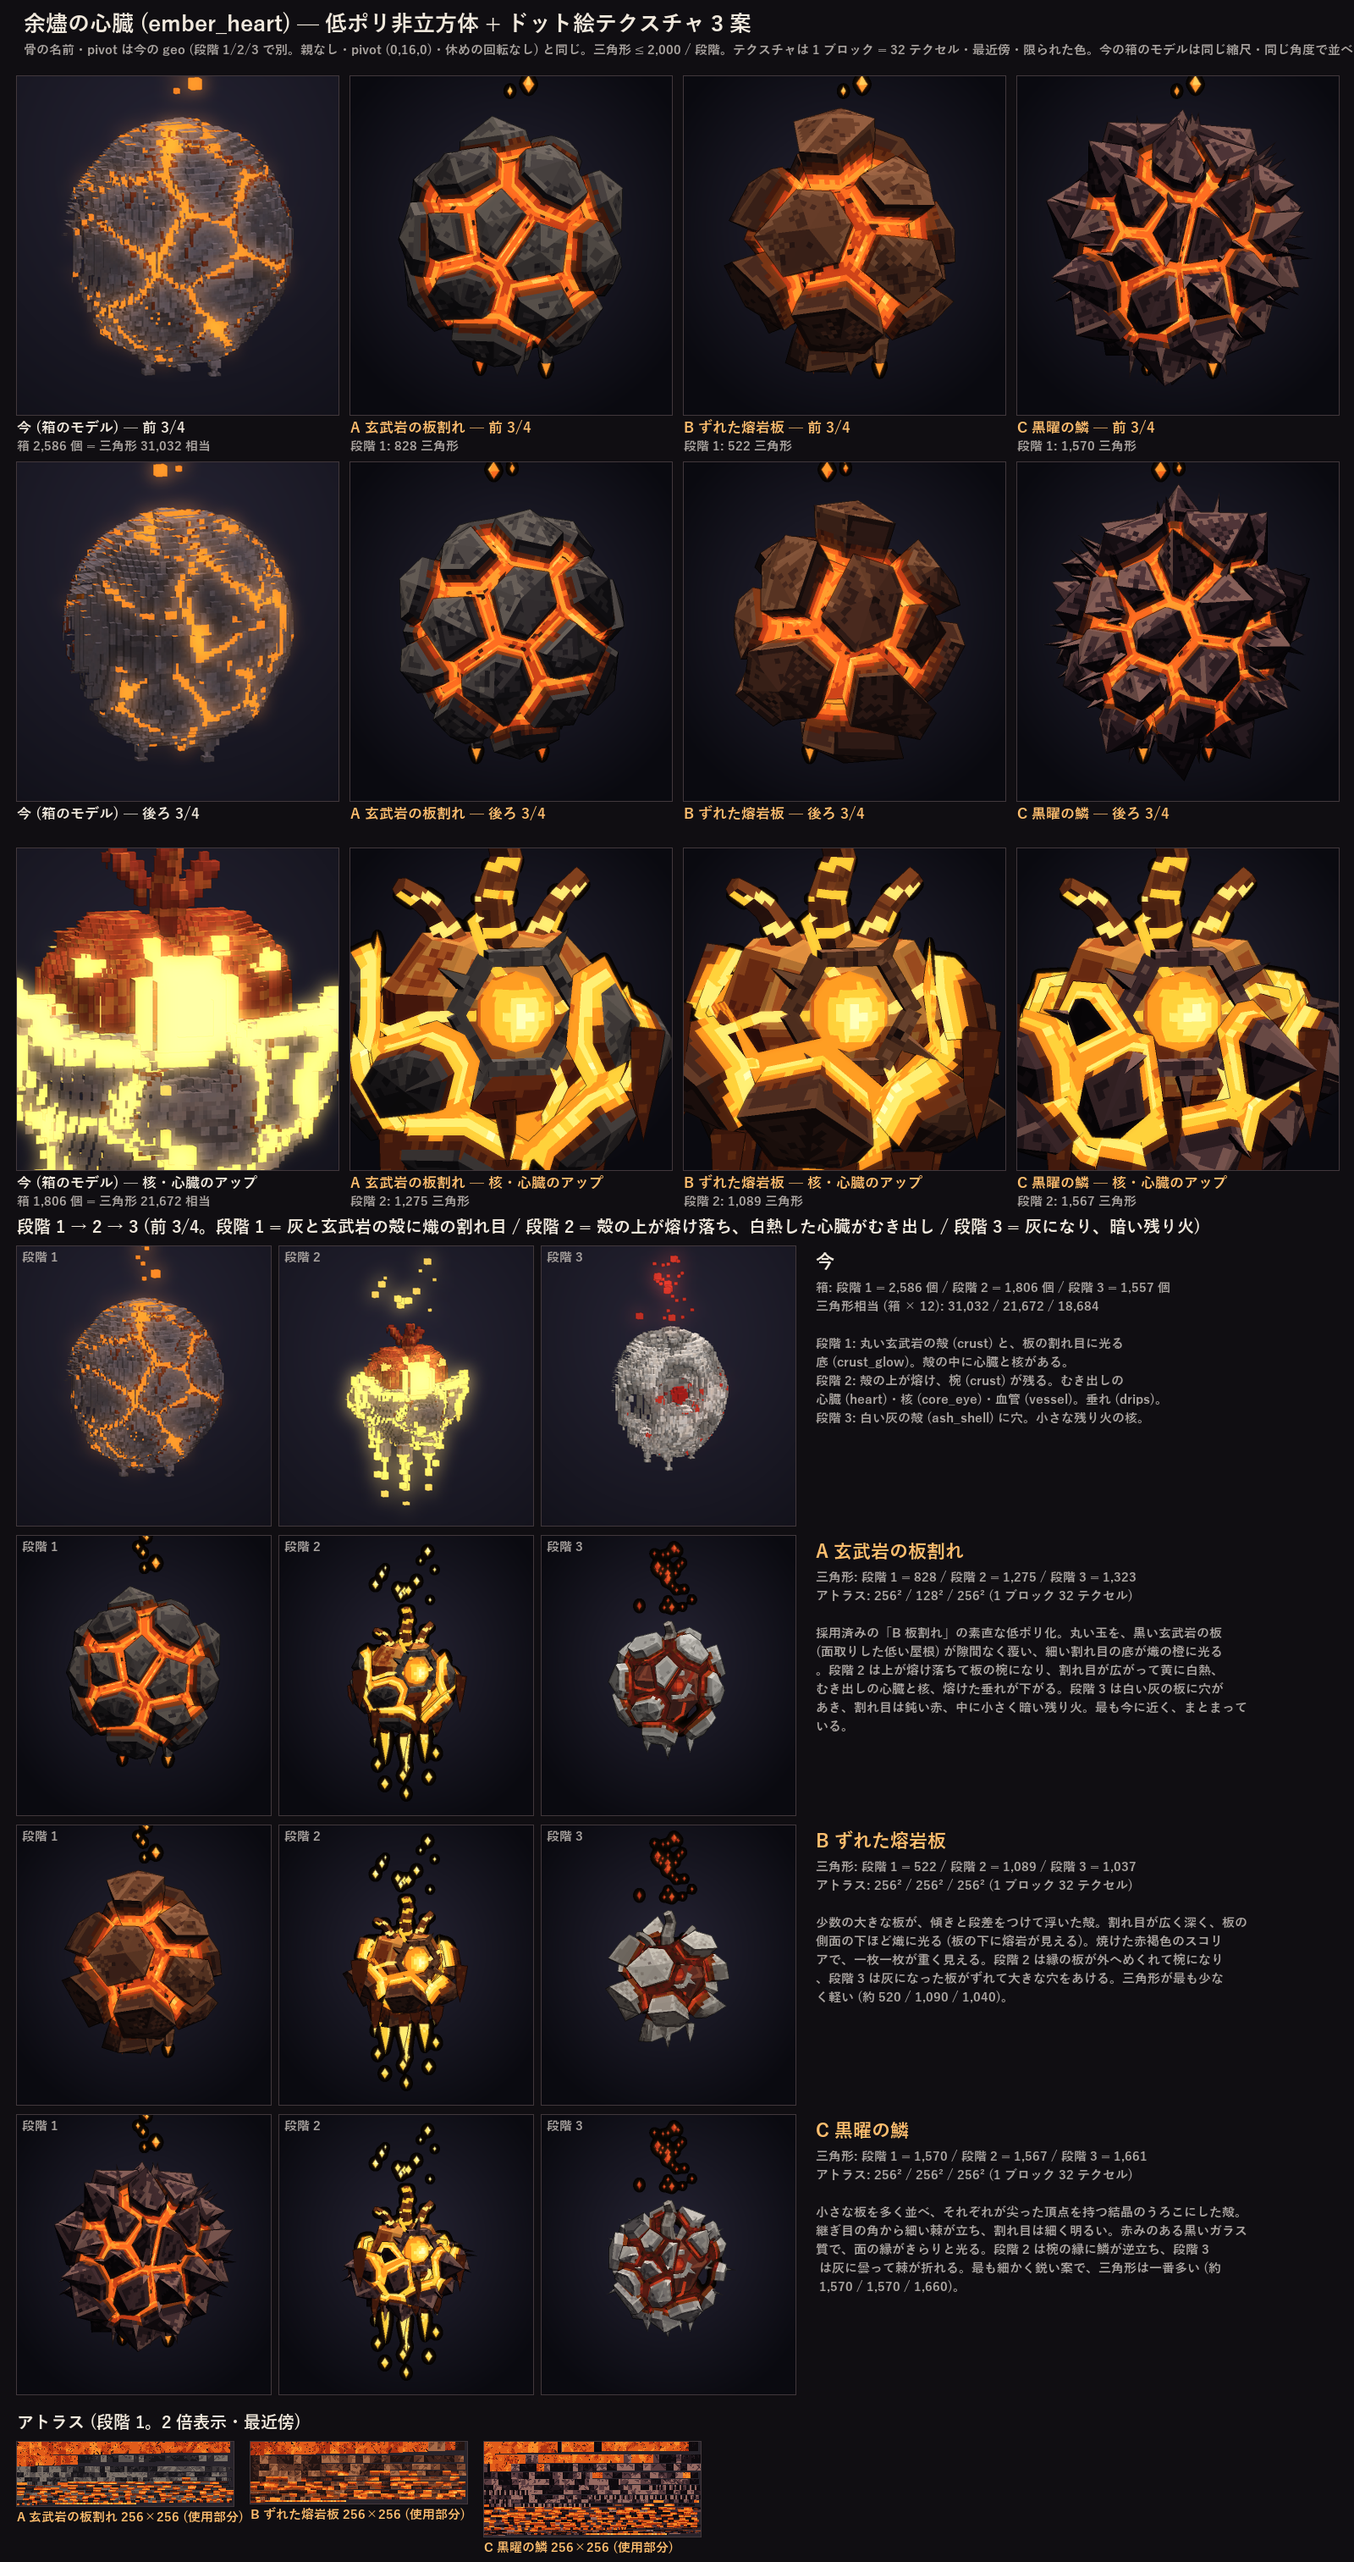
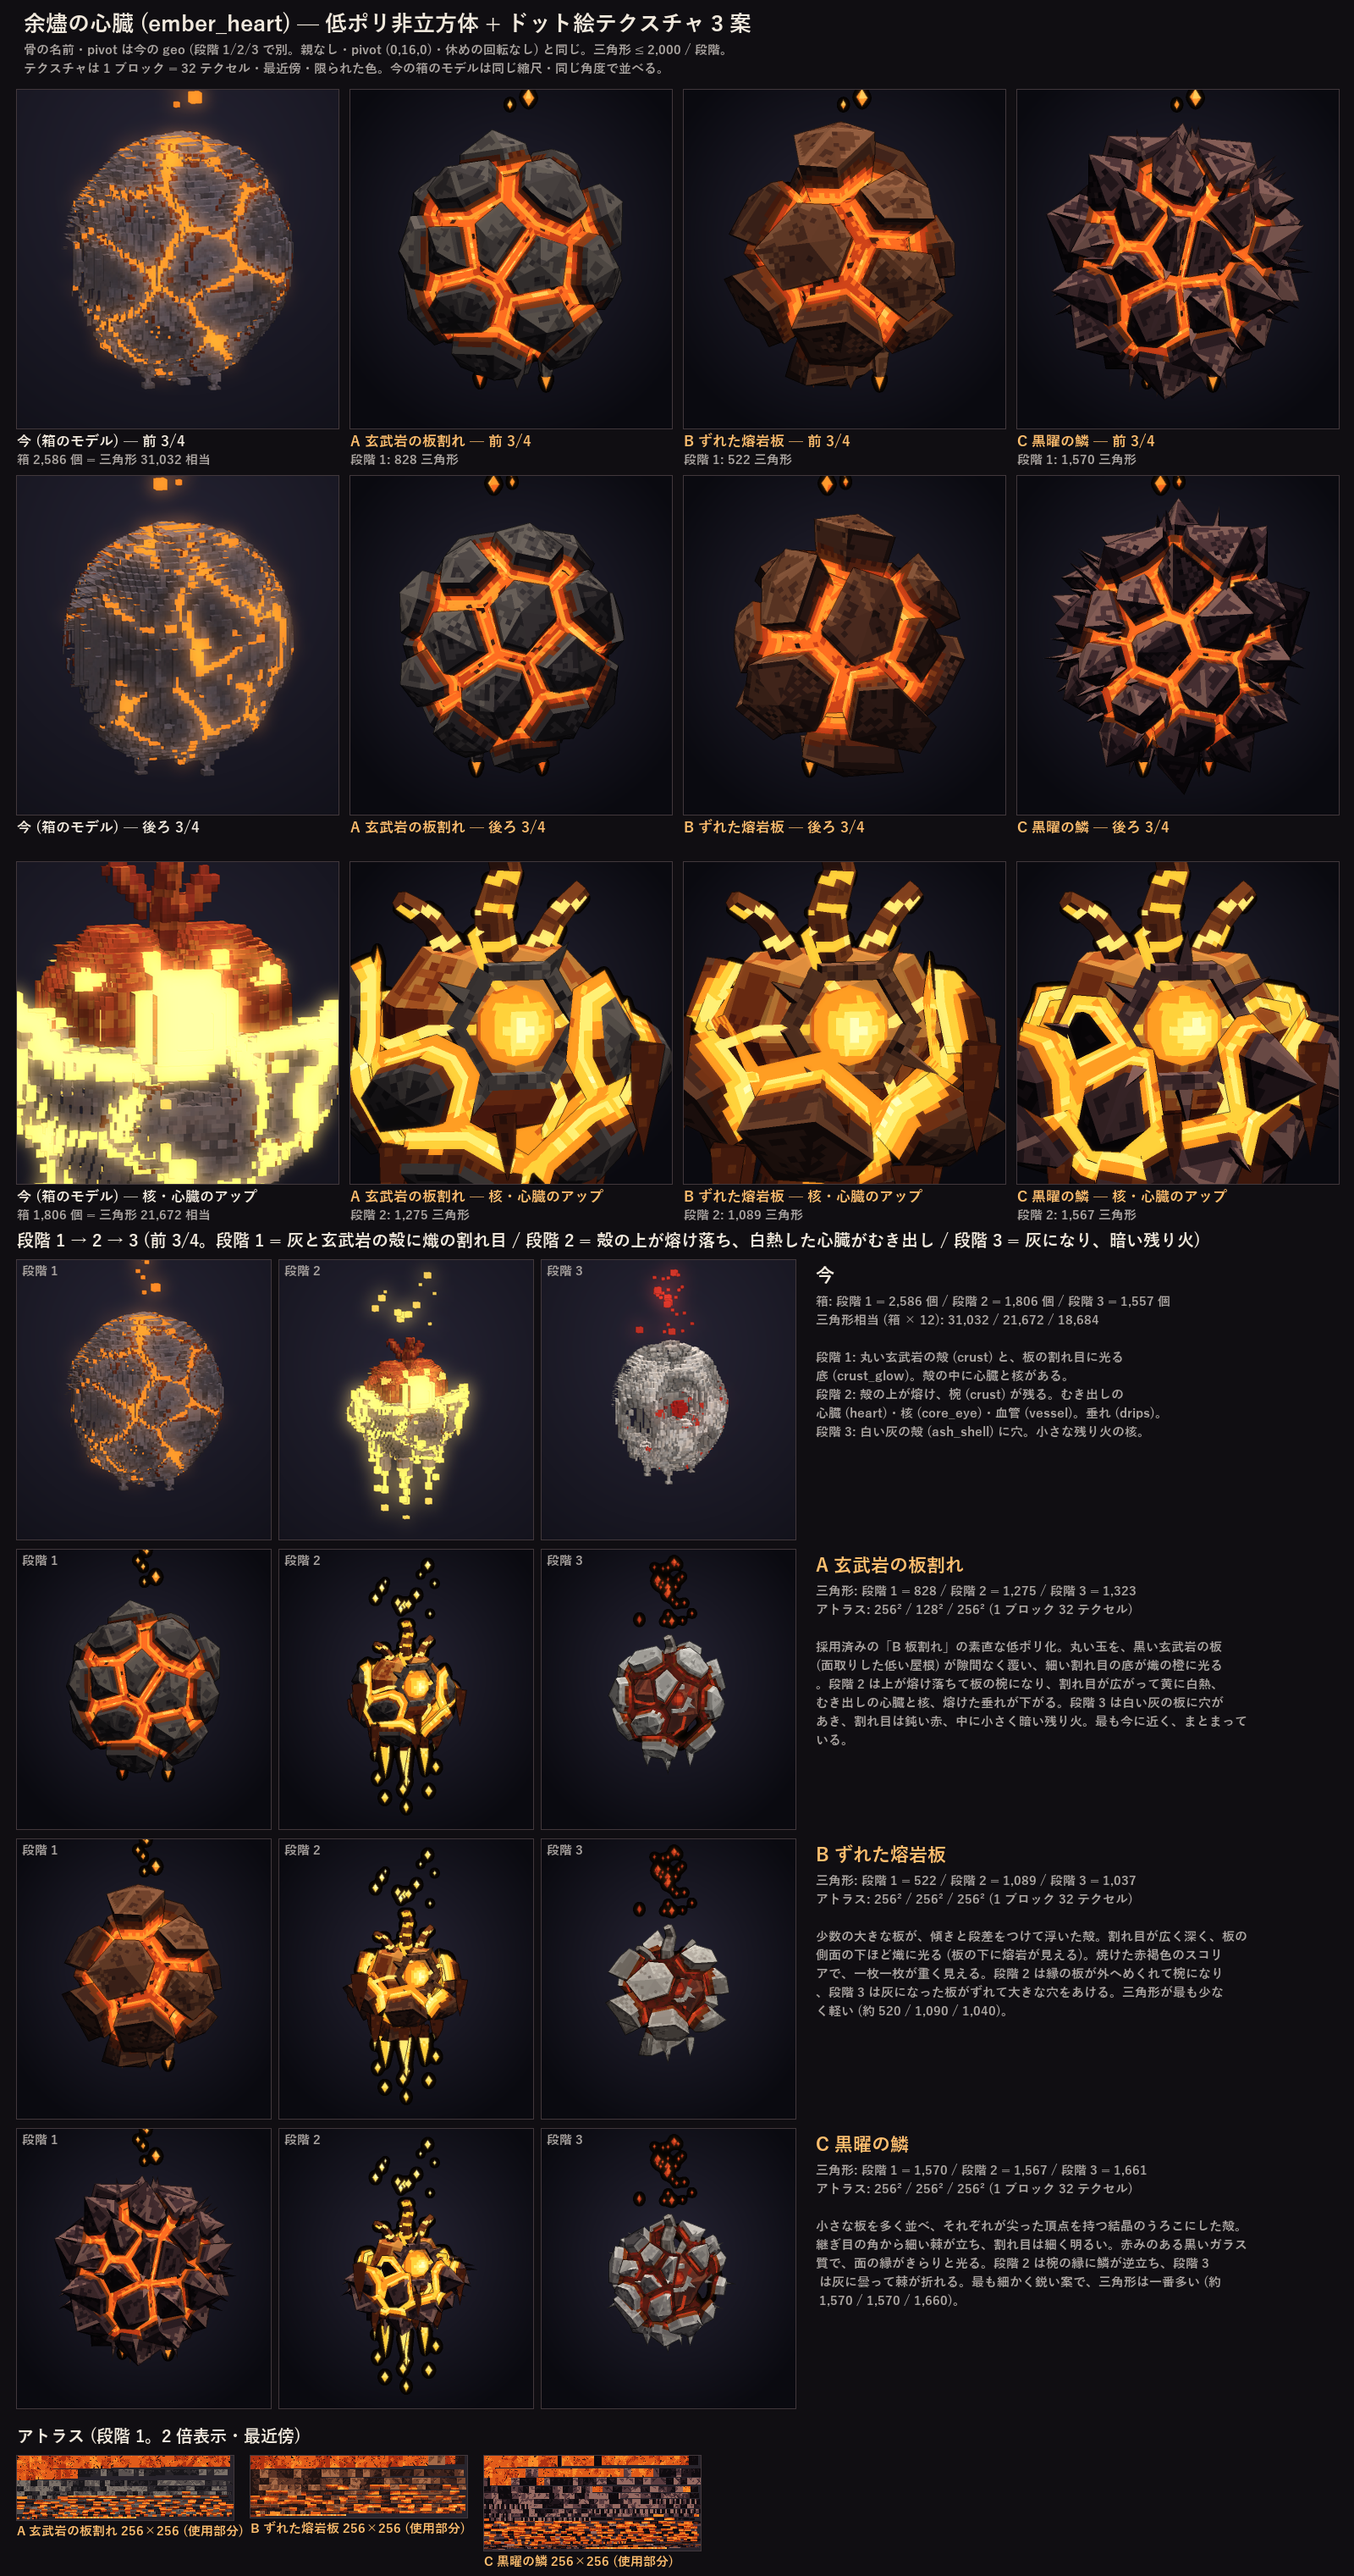
Fix the ember heart sheet header and rebuild

diff --git a/tools/rough/lowpoly/lp_ember_heart/build_all.py b/tools/rough/lowpoly/lp_ember_heart/build_all.py
@@ -96,9 +96,8 @@ def main(save=True):
     canvas = Image.new("RGB", (W, 3600), (16, 14, 18))
     d = ImageDraw.Draw(canvas)
     d.text((28, 14), "余燼の心臓 (ember_heart) — 低ポリ非立方体 + ドット絵テクスチャ 3 案", font=F(26), fill=WH)
-    d.text((28, 50), "骨の名前・pivot は今の geo (段階 1/2/3 で別。親なし・pivot (0,16,0)・休めの回転なし) と同じ。三角形 ≤ 2,000 / 段階。
-"
-                     "テクスチャは 1 ブロック = 32 テクセル・最近傍・限られた色。今の箱のモデルは同じ縮尺・同じ角度で並べる。", font=F(15), fill=GR)
+    d.text((28, 50), "骨の名前・pivot は今の geo (段階 1/2/3 で別。親なし・pivot (0,16,0)・休めの回転なし) と同じ。三角形 ≤ 2,000 / 段階。", font=F(15), fill=GR)
+    d.text((28, 72), "テクスチャは 1 ブロック = 32 テクセル・最近傍・限られた色。今の箱のモデルは同じ縮尺・同じ角度で並べる。", font=F(15), fill=GR)
 
     def frame(x, y, w, h):
         d.rectangle([x - 1, y - 1, x + w, y + h], outline=(66, 56, 60))
@@ -106,7 +105,7 @@ def main(save=True):
     cols, PW, gap, x0 = 4, 380, 14, 20
     colx = lambda i: x0 + i * (PW + gap)
     names = ["今 (箱のモデル)"] + [DESC[o["id"]][0] for o in OPTS]
-    y = 90
+    y = 106
     for title, yaw, ph, cen_, sc_, PH_, pitch in (
             ("前 3/4 (段階 1)", YAW_F, 1, (0, 15.5, 0), 13.0, 400, 12),
             ("後ろ 3/4 (段階 1)", YAW_B, 1, (0, 15.5, 0), 13.0, 400, 12),
